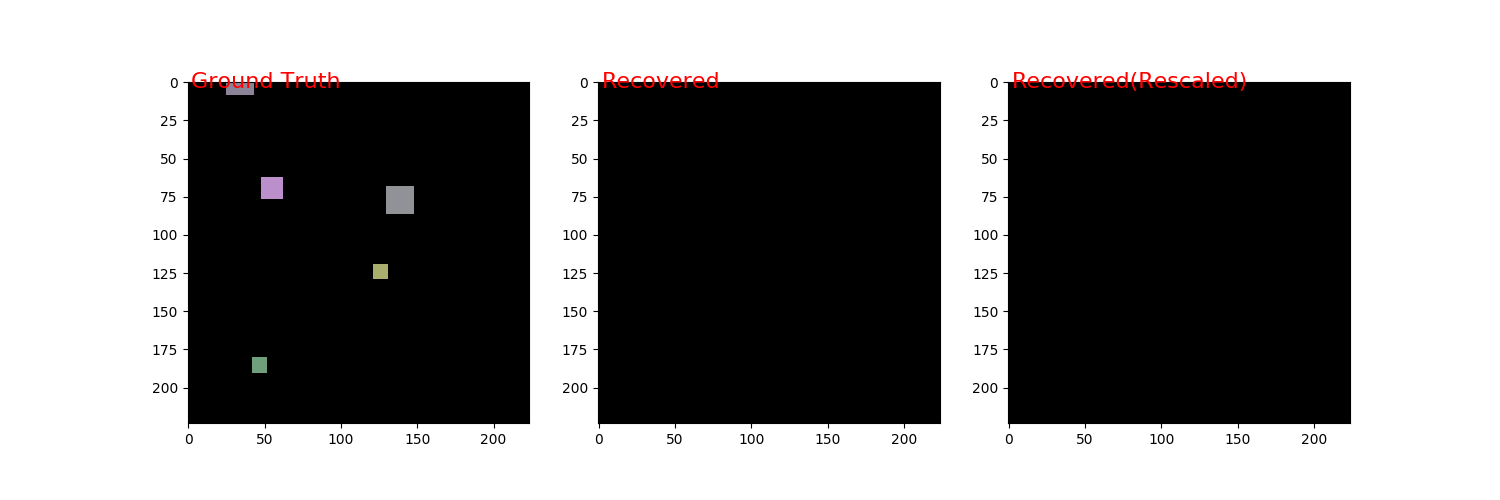
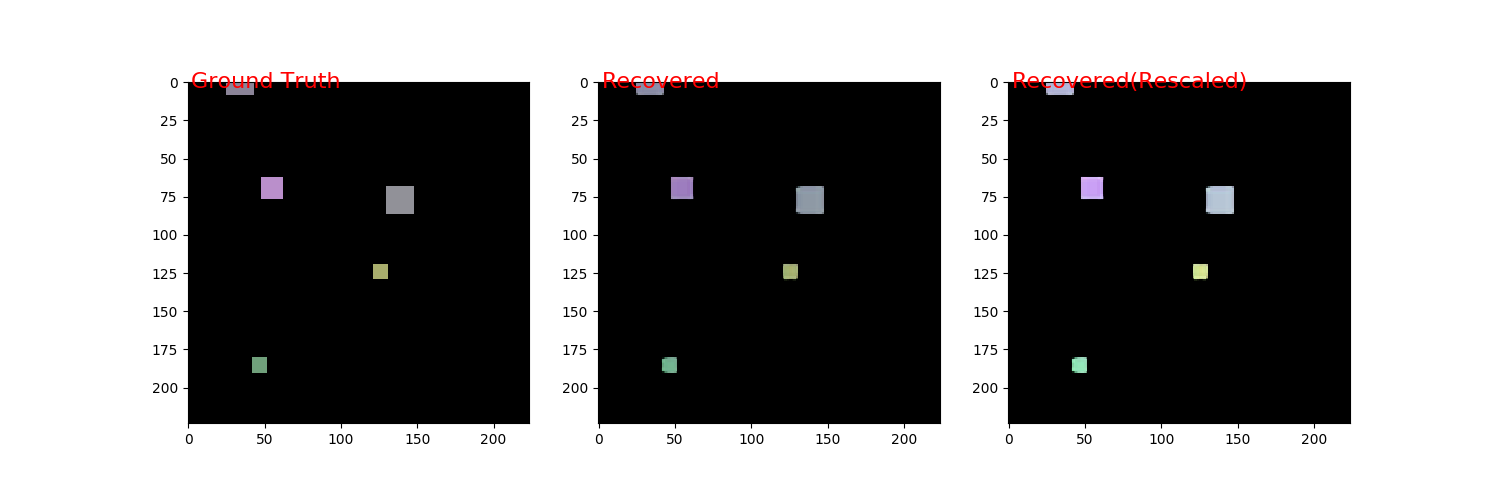
finish 150 epoches color mving sq

diff --git a/convlstm_ae/conv_lstm_ae_ucf.py b/convlstm_ae/conv_lstm_ae_ucf.py
@@ -32,12 +32,11 @@ GENERATE_DATA = 1
 # 1 if generate aritificial data, 0 if use UCF101 data
 
 LOG_DIR = "../../tensorboard/log/"
-EPOCH = 100
-sequenceLength = 5
+EPOCH = 150
+sequenceLength = 3
 setup_name = "clrmvsq_simple_vgg_a"
 N_SAMPLES = 1500
 BATCHSIZE = 5
-
 
 # seq = Sequential()
 
@@ -110,6 +109,7 @@ def generate_movies(n_samples=N_SAMPLES, n_frames=sequenceLength):
             # Size of the square
             # w = np.random.randint(2, 4)
             w = np.random.randint(3, 10)
+            # w = np.random.randint(30, 59)
 
             color_r = np.random.randint(100,205) /255.0
             color_g = np.random.randint(100,205) /255.0
@@ -252,46 +252,50 @@ def main(num_epochs=EPOCH):
     x = TimeDistributed(Conv2D(64, (3, 3), padding='same', activation='relu'), input_shape=(sequenceLength,224,224,3))(inputs)
     # x = TimeDistributed(Conv2D(64, (3, 3), padding='same', activation='relu'))(x)
     x = TimeDistributed(MaxPooling2D((2, 2)))(x)
-    x = TimeDistributed(Conv2D(128, (3, 3), padding='same', activation='relu'))(x)
+    x = TimeDistributed(MaxPooling2D((2, 2)))(x)
     # x = TimeDistributed(Conv2D(128, (3, 3), padding='same', activation='relu'))(x)
-    x = TimeDistributed(MaxPooling2D((2, 2)))(x)
+    # # x = TimeDistributed(Conv2D(128, (3, 3), padding='same', activation='relu'))(x)
+    # x = TimeDistributed(MaxPooling2D((2, 2)))(x)
     # x = TimeDistributed(Conv2D(256, (3, 3), padding='same', activation='relu'))(x)
-    x = TimeDistributed(Conv2D(256, (3, 3), padding='same', activation='relu'))(x)
-    x = TimeDistributed(MaxPooling2D((2, 2)))(x)
-    x = TimeDistributed(Conv2D(512, (3, 3), padding='same', activation='relu'))(x)
-    x = TimeDistributed(MaxPooling2D((2, 2)))(x)
-    x = TimeDistributed(Conv2D(512, (3, 3), padding='same', activation='relu'))(x)
-    x = TimeDistributed(MaxPooling2D((2, 2)))(x)
+    # x = TimeDistributed(Conv2D(256, (3, 3), padding='same', activation='relu'))(x)
+    # x = TimeDistributed(MaxPooling2D((2, 2)))(x)
+    # x = TimeDistributed(Conv2D(512, (3, 3), padding='same', activation='relu'))(x)
+    # x = TimeDistributed(MaxPooling2D((2, 2)))(x)
+    # x = TimeDistributed(Conv2D(512, (3, 3), padding='same', activation='relu'))(x)
+    # x = TimeDistributed(MaxPooling2D((2, 2)))(x)
 
-    x = TimeDistributed(Flatten())(x)
+    x = TimeDistributed(Flatten())(x) 
 
-    x = Dense(3000, activation='relu')(x)
+    x = Dense(500, activation='relu')(x)
     # x = Reshape((15,10*10*4))(x)
 
     # x = LSTM(400, activation='tanh', return_sequences=True)(x)
-    x = LSTM(3000, activation='tanh')(x)
+    x = LSTM(500, activation='tanh')(x)
     print(K.int_shape(x))
 
     x = RepeatVector(sequenceLength)(x)
     print(K.int_shape(x))
     print('--- Defining Decoder ---')
 
-    x = LSTM(3000, activation='tanh', return_sequences=True)(x)
+    x = LSTM(500, activation='tanh', return_sequences=True)(x)
     print(K.int_shape(x))
 
-    x = Dense(7*7*512, activation='relu')(x)
+    # x = Dense(7*7*512, activation='relu')(x)
+    x = Dense(56*56*64, activation='relu')(x)
     # x = Reshape((15,10,10,4))(x)
-    x = TimeDistributed(Reshape((7,7,512)))(x)
+    # x = TimeDistributed(Reshape((7,7,512)))(x)
+    x = TimeDistributed(Reshape((56,56,64)))(x)
     
-    x = TimeDistributed(UpSampling2D((2, 2)))(x)
-    x = TimeDistributed(Conv2D(512, (3, 3), padding='same', activation='relu'))(x)
-    x = TimeDistributed(UpSampling2D((2, 2)))(x)
-    x = TimeDistributed(Conv2D(512, (3, 3), padding='same', activation='relu'))(x)
-    x = TimeDistributed(UpSampling2D((2, 2)))(x)
-    x = TimeDistributed(Conv2D(256, (3, 3), padding='same', activation='relu'))(x)
+    # x = TimeDistributed(UpSampling2D((2, 2)))(x)
+    # x = TimeDistributed(Conv2D(512, (3, 3), padding='same', activation='relu'))(x)
+    # x = TimeDistributed(UpSampling2D((2, 2)))(x)
+    # x = TimeDistributed(Conv2D(512, (3, 3), padding='same', activation='relu'))(x)
+    # x = TimeDistributed(UpSampling2D((2, 2)))(x)
     # x = TimeDistributed(Conv2D(256, (3, 3), padding='same', activation='relu'))(x)
+    # # x = TimeDistributed(Conv2D(256, (3, 3), padding='same', activation='relu'))(x)
+    # x = TimeDistributed(UpSampling2D((2, 2)))(x)
+    # x = TimeDistributed(Conv2D(128, (3, 3), padding='same', activation='relu'))(x)
     x = TimeDistributed(UpSampling2D((2, 2)))(x)
-    x = TimeDistributed(Conv2D(128, (3, 3), padding='same', activation='relu'))(x)
     x = TimeDistributed(UpSampling2D((2, 2)))(x)
     x = TimeDistributed(Conv2D(64, (3, 3), padding='same', activation='relu'))(x)
     # x = TimeDistributed(Conv2D(64, (3, 3), padding='same', activation='relu'))(x)
@@ -334,7 +338,8 @@ def main(num_epochs=EPOCH):
             batch_size=BATCHSIZE,
             epochs=num_epochs, 
             validation_split=0.05,
-            callbacks=[TensorBoard(log_dir=LOG_DIR+'/convlstm_'+setup_name+'/epoch_'+str(num_epochs))])
+            callbacks=[TensorBoard(log_dir=LOG_DIR+'/convlstm_'+setup_name+'/epoch_'+str(num_epochs)), ]
+            )
 
     ###################################
     # Predicting
@@ -360,7 +365,10 @@ def main(num_epochs=EPOCH):
 
         ax = fig.add_subplot(133)
         ax.text(2, 4, 'Recovered(Rescaled)', fontsize=16, color='red')
-        toplot = toplot / np.amax(toplot)
+        maxvalue = np.amax(toplot)
+        if maxvalue <= 0:
+            maxvalue = 1
+        toplot = toplot / maxvalue
         plt.imshow(toplot)
 
         plt.savefig('predict/%05i_animate.png' % (i + 1))
